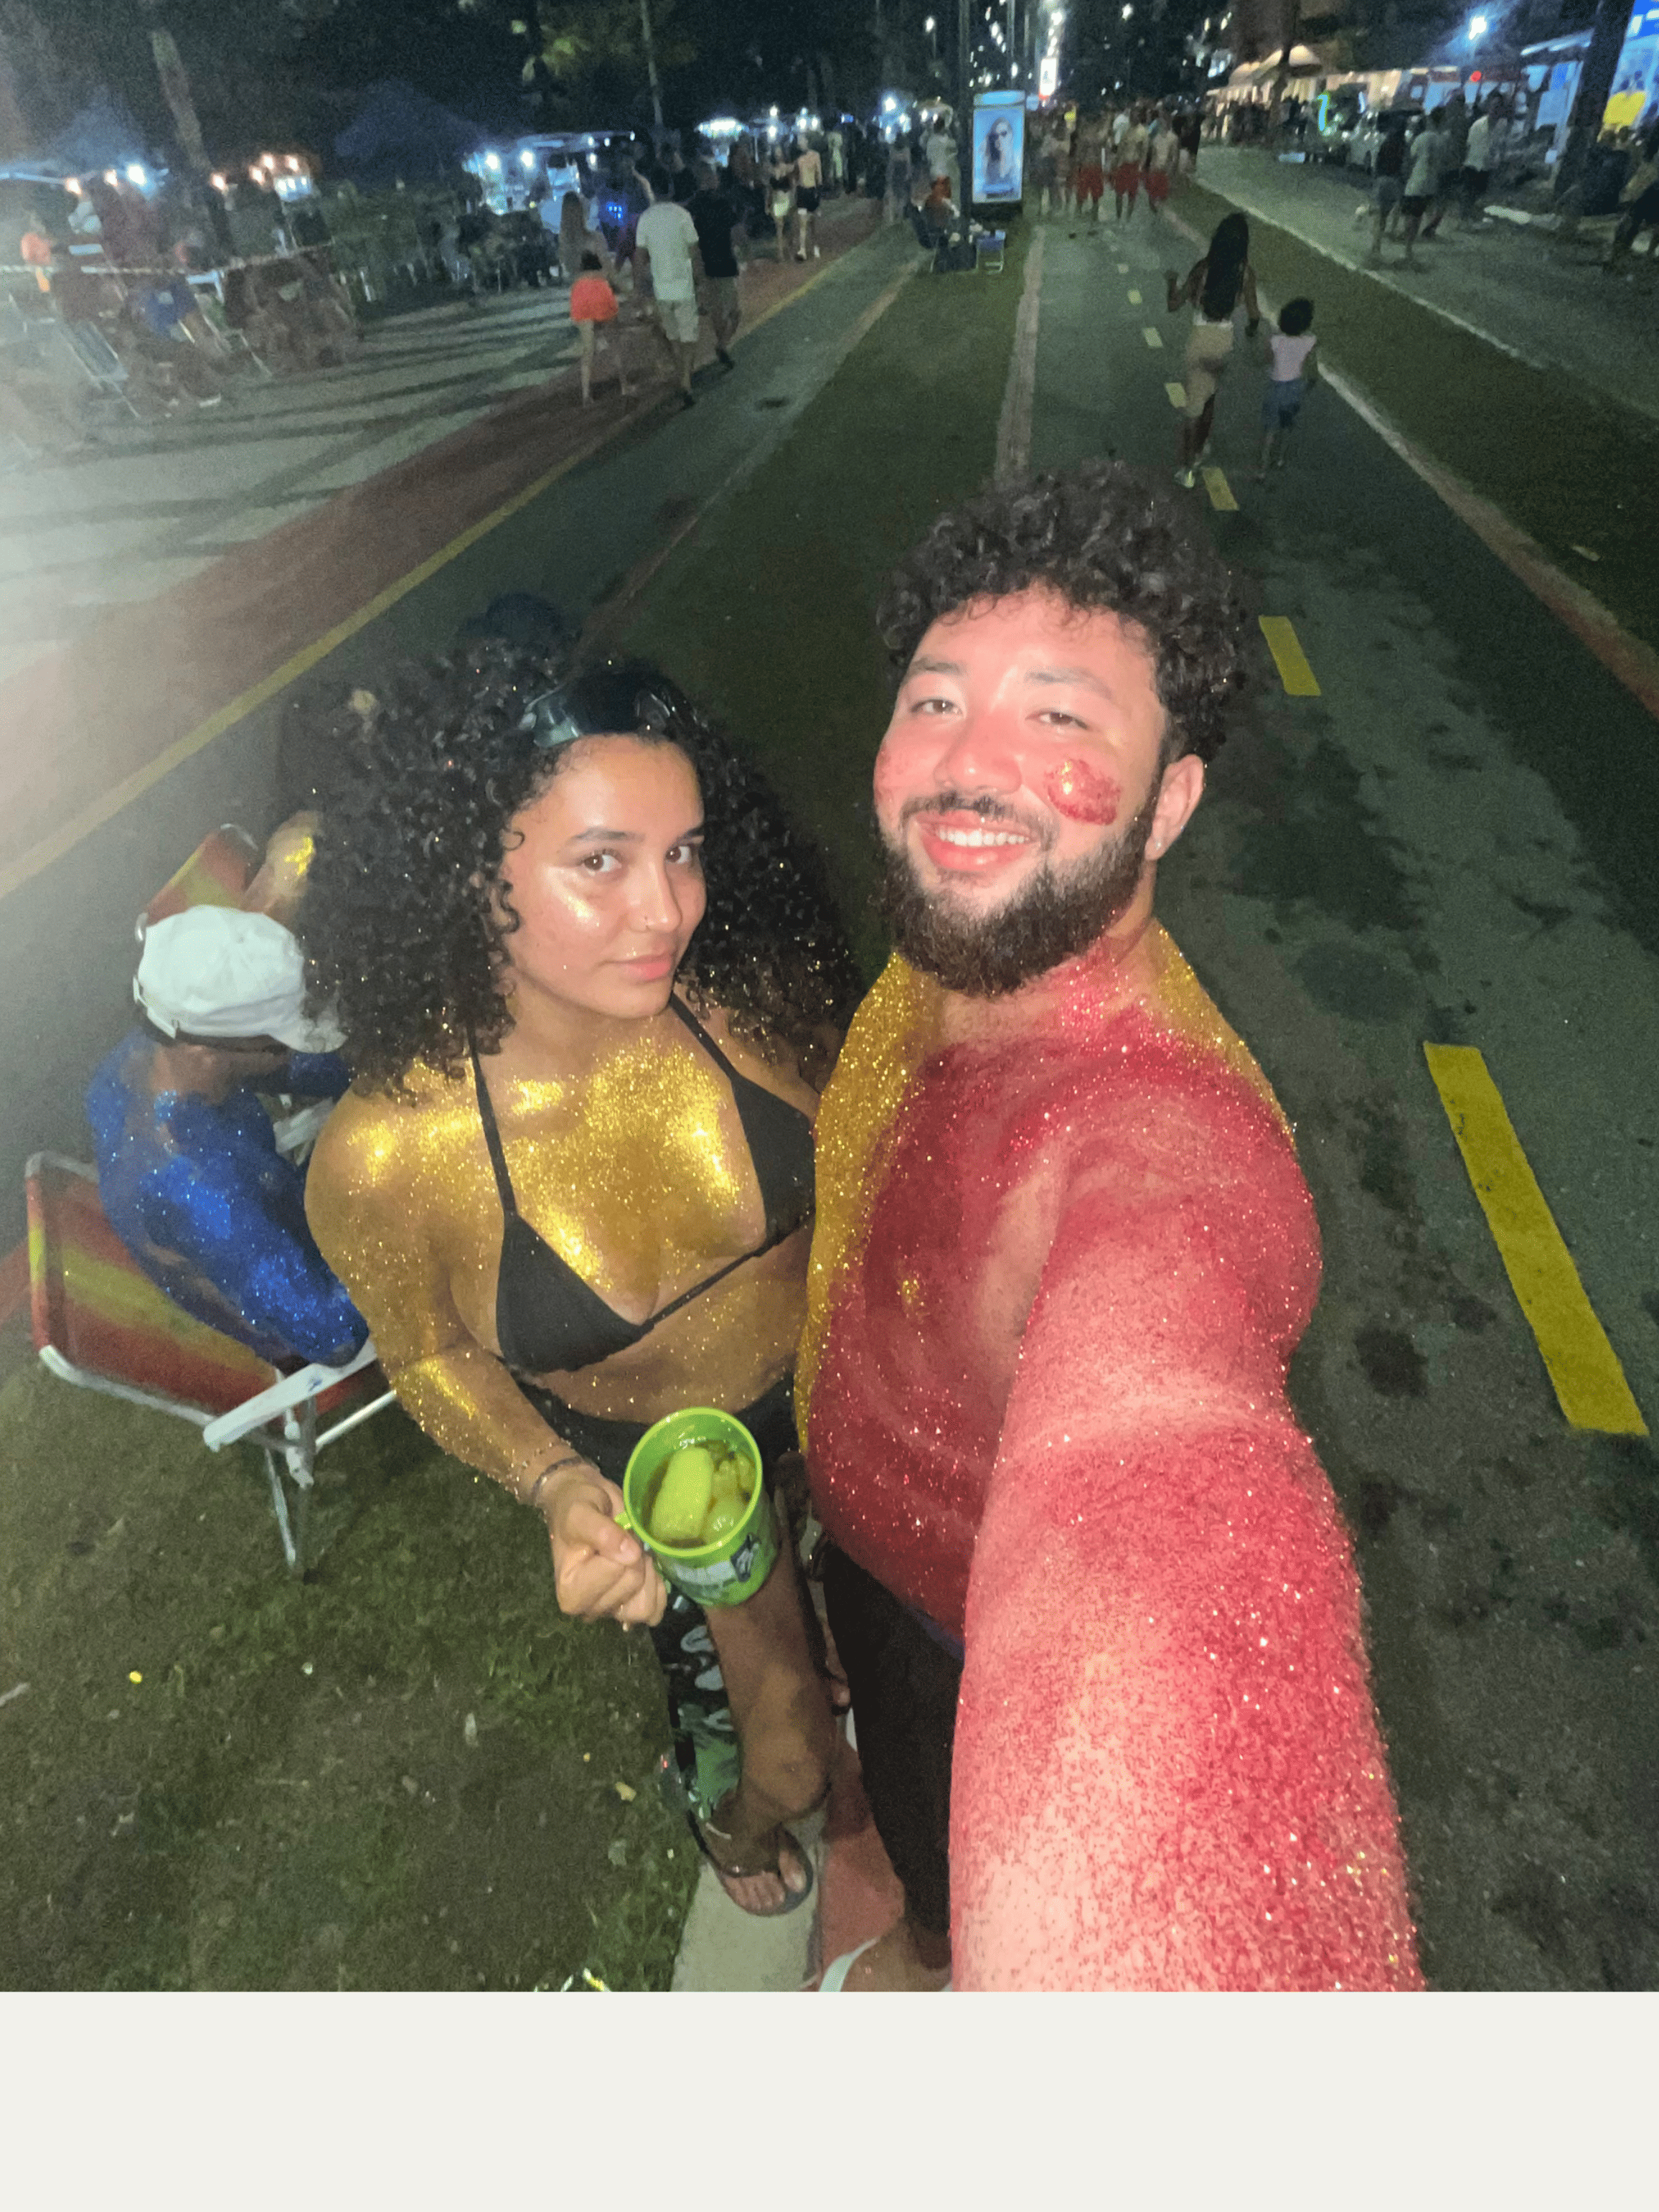
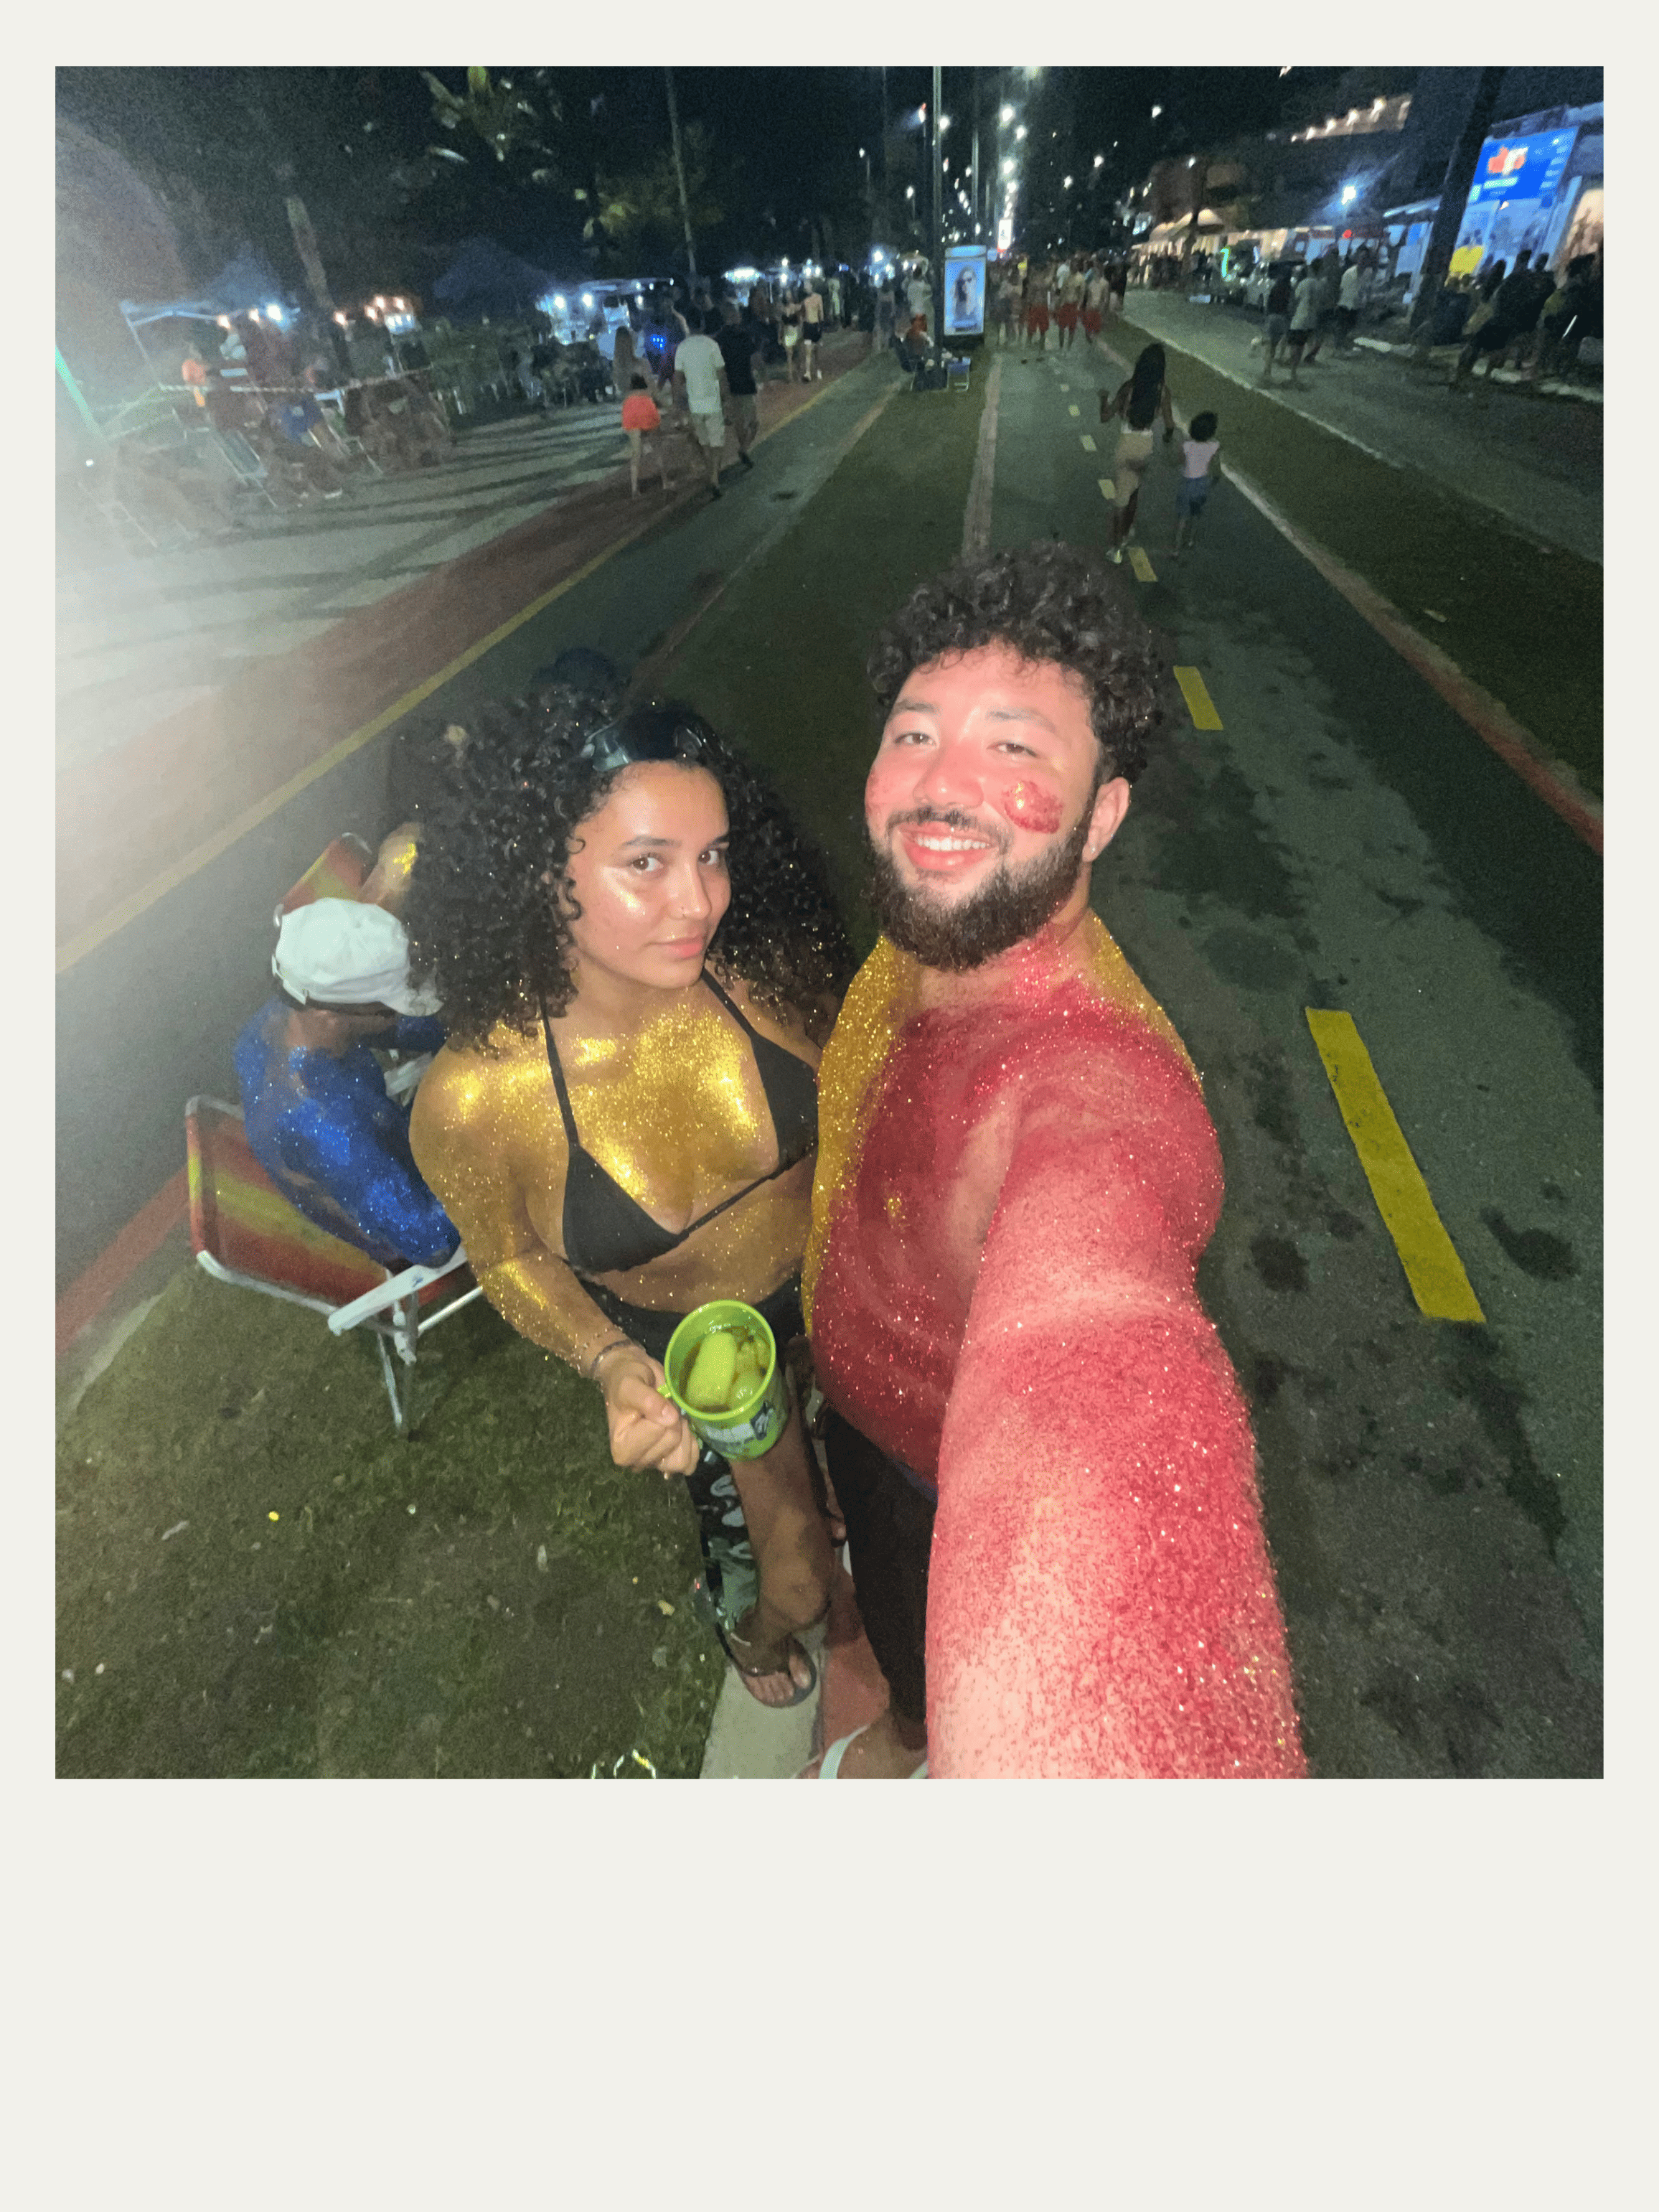
ultimos ajustes

diff --git a/index.html b/index.html
@@ -89,30 +89,31 @@
                 
                 <div class="letter-content" id="letterContent">
                     <p class="letter-text">
-                        Meu amor,
+                        Minha preta,
                     </p>
                     <p class="letter-text">
-                        Hoje é um dia especial, mas a verdade é que todos os dias ao seu lado 
-                        são especiais. Preparei esse cantinho virtual para guardar alguns dos 
-                        nossos momentos mais felizes.
+                        Quando nos conhecemos, não imaginava que fôssemos construir esse relacionamento tão foda, que eu amo tanto. Não sabia que aquela garota que eu conheci numa noite de 12 de abril (que juntos decidimos que ia ser 13 de abril por causa do horário da foto kkkkk), fã do Alanzoka, fosse essa mulher incrível que você é.
+                    </p>
+
+                    <p class="letter-text">
+                        Seu carinho, seu respeito, seu cuidado e seu amor (não só comigo, mas com todos os animais) fizeram eu me apaixonar por você.
+                    </p>
+
+                    <p class="letter-text">
+                        Amo cada momento que passamos juntos, cada viagem, cada noite que dormimos abraçadinhos. Você me faz sentir um homem de verdade, e é por você que eu procuro ser a minha melhor versão todos os dias.
                     </p>
                     <p class="letter-text">
-                        Cada foto aqui representa uma memória que guardo no coração. 
-                        Cada música na playlist é um pensamento em você.
-                    </p>
-                    <p class="letter-text">
-                        Obrigado por fazer parte da minha vida e por tornar cada dia 
-                        mais colorido e cheio de amor.
+                        Quero te agradecer por me aturar, por brincar comigo e por ser uma namorada foda. Nem nos meus melhores sonhos eu imaginava que encontraria alguém como você. Você foi a melhor coisa que me aconteceu, e eu te amo muito.
                     </p>
                     <p class="letter-signature">
                         Com todo meu amor,<br>
-                        <span class="signature-name">Matheus Barboza</span>
+                        <span class="signature-name">Seu Homem</span>
                     </p>
                 </div>
                 
                 <!-- Botão para revelar surpresa (abre modal de vídeo) -->
                 <button class="reveal-button" id="revealButton">
-                    Revele uma surpresa
+                    Revele surpresa
                 </button>
                 
                 <!-- Botão para abrir presentes (vales) -->
@@ -149,7 +150,7 @@
                             
                             <!-- Vale Massagem -->
                             <div class="voucher-card" data-voucher="massagem">
-                                <div class="voucher-icon">💆♀️</div>
+                                <div class="voucher-icon">💆🏾♀️</div>
                                 <h4 class="voucher-title">Vale Massagem</h4>
                                 <p class="voucher-description">Uma massagem relaxante só para você</p>
                                 <button class="voucher-button" onclick="gerarVoucher('massagem')">
@@ -159,7 +160,7 @@
                             
                             <!-- Vale Cinema -->
                             <div class="voucher-card" data-voucher="cinema">
-                                <div class="voucher-icon">🎬</div>
+                                <div class="voucher-icon">🎥</div>
                                 <h4 class="voucher-title">Vale Cinema</h4>
                                 <p class="voucher-description">Filme, pipoca e a sua companhia favorita</p>
                                 <button class="voucher-button" onclick="gerarVoucher('cinema')">
@@ -279,8 +280,6 @@
         <!-- Footer -->
         <footer class="footer">
             <div class="footer-content">
-                <p class="footer-text">Feito com muito amor</p>
-                <p class="footer-text">Dia dos Namorados 2026</p>
                 <div class="footer-divider"></div>
                 <p class="footer-quote">
                     TE AMO MINHA PRETA